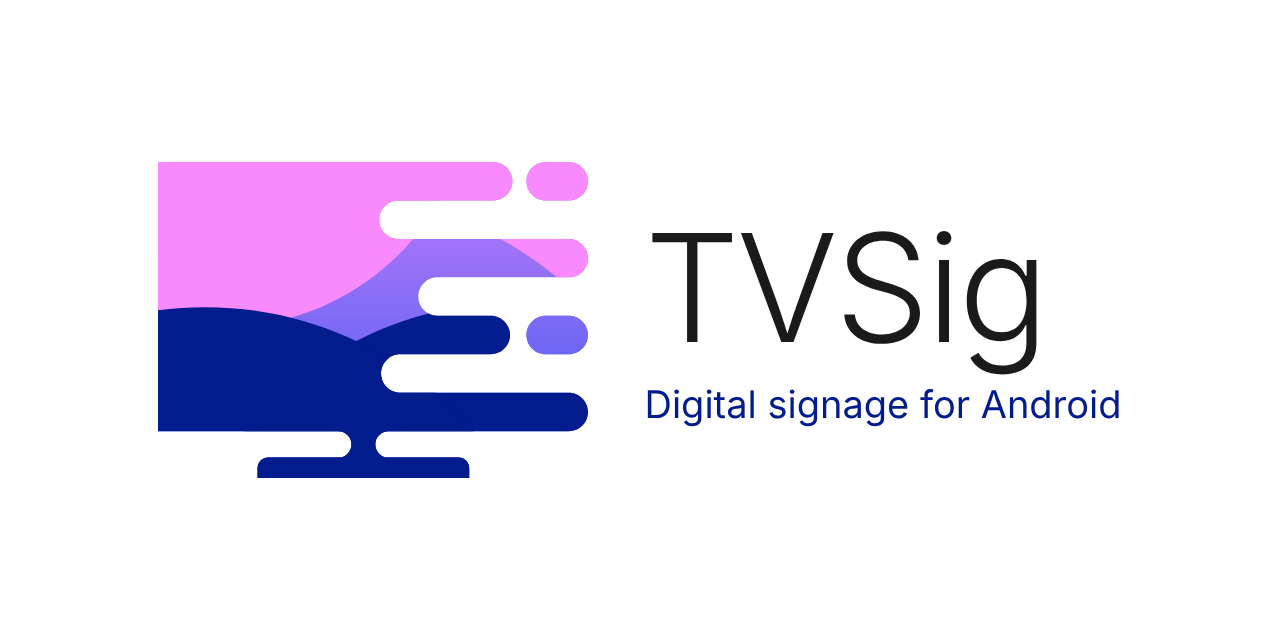
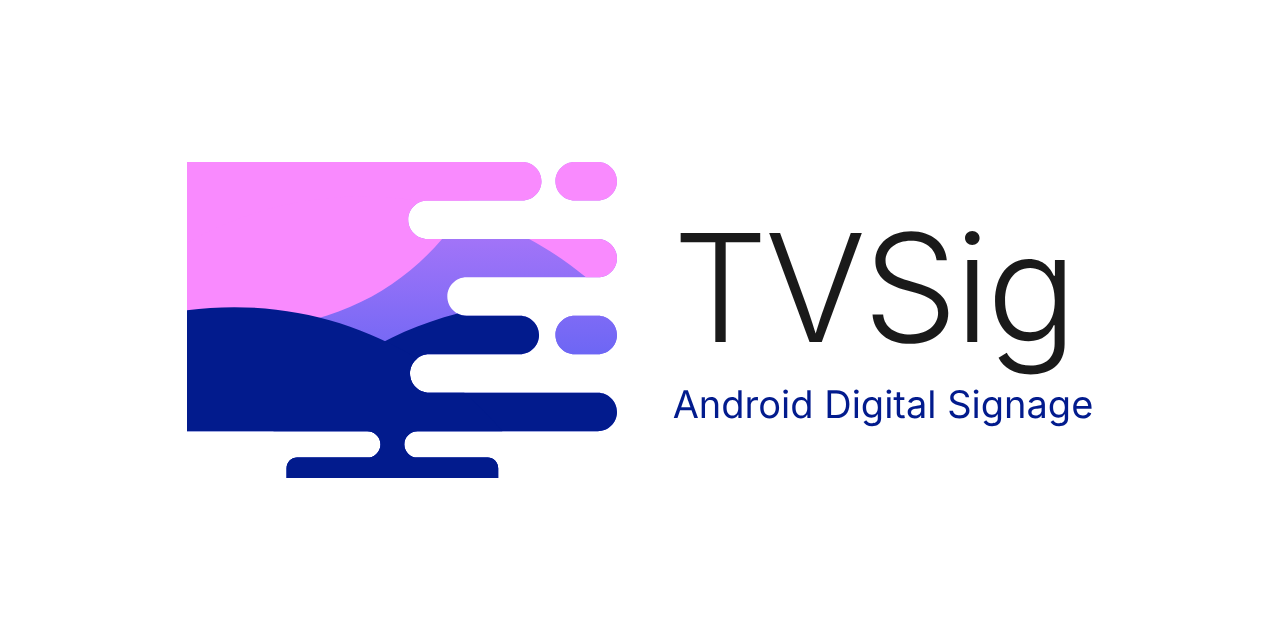
Change the tagline to Android Digital Signage

diff --git a/design/generate-assets.js b/design/generate-assets.js
@@ -80,7 +80,7 @@ const lockup = (logoWidth, textSize, gap) =>
   await shot('doc/social-preview.png', 1280, 640,
     `<div style="display:flex;align-items:center;gap:56px">${logo(430)}` +
     `<div>${wordmark(150)}<div style="margin-top:18px;font-size:38px;font-weight:400;color:#021B8D">` +
-    `Digital signage for Android</div></div></div>`, '#fff');
+    `Android Digital Signage</div></div></div>`, '#fff');
 
   await browser.close();
 })();

diff --git a/README.md b/README.md
@@ -2,7 +2,7 @@
 
 # TVSig
 
-Digital signage app for Android phones, tablets and Android TV. It plays images and videos from a folder on your own web server. There is no Google account, no Google Drive and no license check.
+Android digital signage app for phones, tablets and Android TV. It plays images and videos from a folder on your own web server. There is no Google account, no Google Drive and no license check.
 
 - **Application ID:** `com.kutlusoy.tvsig`
 - **Version:** 0.0.1
